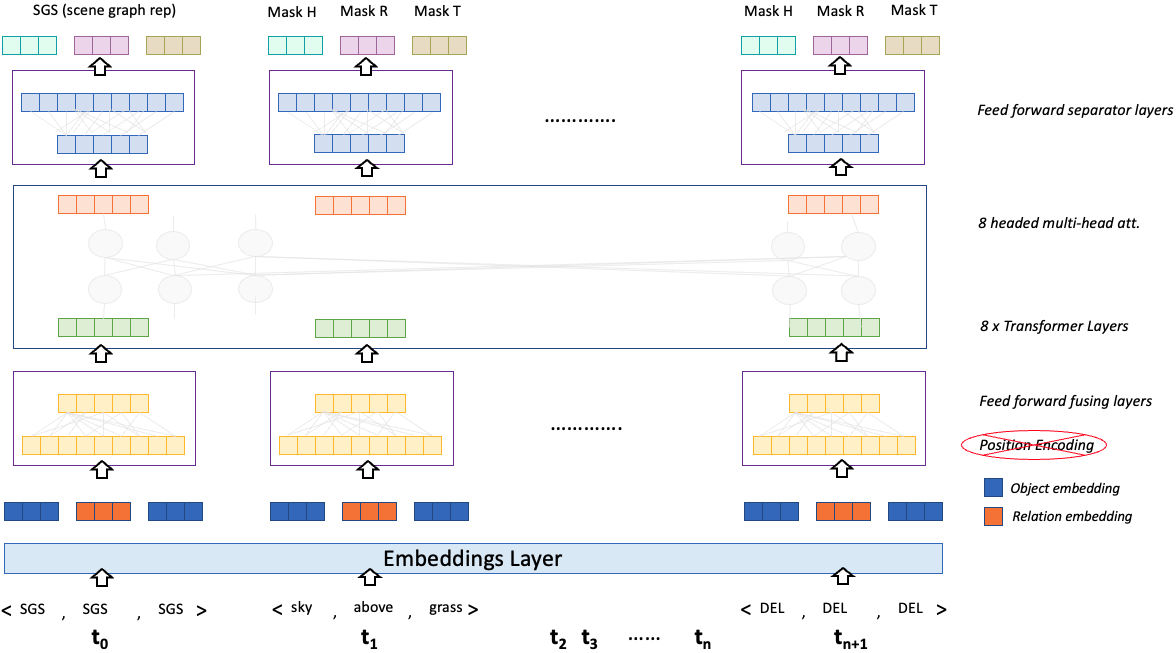
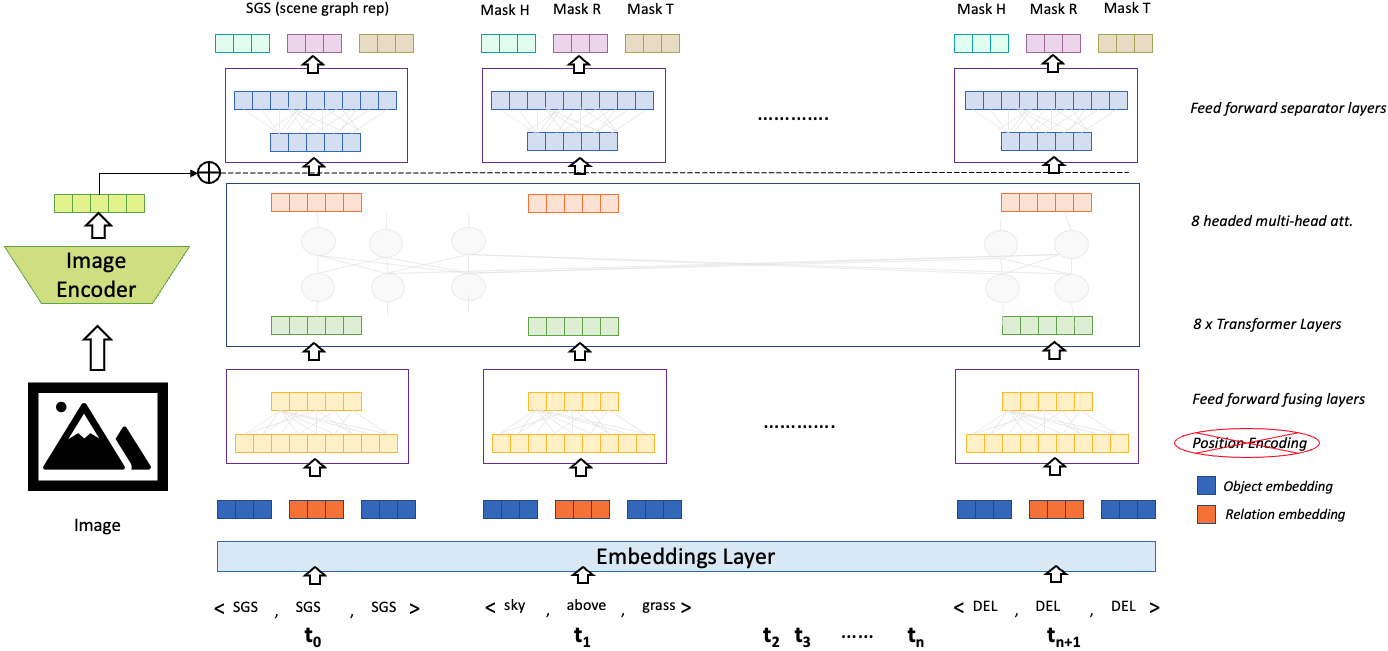
updated website

diff --git a/_docs/Methodology/Fine-tuning.md b/_docs/Methodology/Fine-tuning.md
@@ -14,7 +14,42 @@ Given an incomplete scene graph, our objective is to estimate the missing object
 <br>
 </center>
 
-The layers of the model are initialized with the learnt parameter values from the pre-training setup. The output layers are initialized from scratch. As observed from the figure, there are two setups that we have experimented with. 
+The layers of the model are initialized with the learnt parameter values from the pre-training setup. Please note that the image encoder part is entirely removed from this stage because we need to generate the image from here onwards. 
+
+> Fine-tuning setup
+
+The output layers are initialized from scratch. As observed from the figure, there are two setups that we have experimented with. 
 
 <h4>Setup a </h4>
-In this setup we assume that a candidate triple is provided to us, which requires us to predict whether it belongs to the input scene or not. 
+In this setup we assume that a candidate triple is provided to us, and requires us to predict whether it belongs to the input scene or not. For this setup, we construct the input as < SGS, SGS, SGS > , triple 1, triple 2, .. , triple n < DEL, DEL, DEL > candidate triple < DEL, DEL, DEL > i.e scene graph start, input scene graph, delimiter, candidate triple, and delimiter for input end. The output of the final layer corresponding to the token < SGS, SGS, SGS > is passed through a couple of dense and softmax layers to estimate the probability of the candidate triple being part of the input scene graph. 
+
+**Training**  
+For training we simulate the incomplete scene graphs by randomly removing some triples from the input scene graphs and consider them as the candidate triples. The positive candidates are taken directly from the removed triples. The negative candidates are either randomly generated by sampling by the object and relation dictionaries or by taking some random triple from other scene graphs. Note that this setup is a binary classification problem and hence the loss function used is the standard cross entropy loss. 
+> Challenges 
+
+This setup has a major drawback. The input assumes that a candidate triple is provided and the objective is to classify the triplet. However, in a real world setup, the candidate is not provided to us. Therefore, we consider each < object * relation * object > possible triple from the object and relation dictionaries and evaluate it against the input scene graph. However, we have around 65K objects and 20K relation types in the original Visual Genome dataset, and even in the VG-WSDN dataset we have 150 objects * 50 objects * 150 objects. Given the number of possible candidate triples, there is a possibility of huge amounts of noise and compute requirements for this setup.
+
+<h4>Setup b </h4>
+In this setup we assume that a candidate object is provided to us, and we are supposed to predict the missing relation and other end of the triplet. For this setup, we construct the input as < SGS, SGS, SGS > , triple 1, triple 2, .. , triple n, < candidate object, MASK_RELATION, MASK_OBJECT >, < DEL, DEL, DEL > i.e scene graph start, input scene graph, candidate object with other 2 parts masked, and delimiter for input end. The output of the final layer corresponding to the masked elements MASK_RELATION, MASK_OBJECT are passed through a couple of dense and softmax layers to predict the missing relation and tail objects. Important points to consider - 
+1. In this setup, the number of times we need to infer from the model is only the number of object times which is much better than the previous setup 
+2. The model has the additional burden of performing an n-way relation and object prediction problem which is not present in the previous, hence a drop in performance.
+3. While we mask the triple in its original position in the scene graph sequence, since there is no significance to the position in the input order (no position encodings), we always put the candidate at the end during inference time, without loss of generality. 
+
+**Training**  
+For training we simulate the incomplete scene graphs by randomly masking relation and tail objects of triples from input scene graphs and try to estimate them. Unlike the previous setting we don't need to generate negative samples. The ground truth labels are the masked elements from the input scene graphs. The loss function is a weighted combination of the 2 multi head n-class classification losses i.e categorical cross entropy losses.
+> Challenges 
+
+This setup also has a similar drawback. We need to iterate over the *n* objects in the object dictionary and infer the model n-times which is also a significant inference overhead. To overcome this, we propose a candidate selection/filtering algorithm, which is explained below. 
+
+<h4>Candidate Selection Algorithm</h4>
+Our main hypothesis, which is also proven through our pre-training results, is that objects in nature often tend to collocate with each other. Therefore, we adapt a technique called [Pointwise Mutual Information](https://en.wikipedia.org/wiki/Pointwise_mutual_information) to estimate this co-occurrence phenomenon. The PMI is defined as 
+<center>
+<img src="../../images/pmi.png" alt="example" style="width:500px;"/>
+<br>
+</center>
+where obj1 and obj2 are the two objects for which we want to estimate the pmi scores. Intuitively the metric measures the probability of both the objects occurring together as against to both of them appearing individually in the scenes. Here is the pmi scores chart plotted for the 150 objects of the VG-WSDN dataset. 
+<center>
+<img src="../../images/pmi_plot.png" alt="example" style="width:900px;"/>
+<br>
+</center>
+For better visualization, you can also download the image from [here](). The image is plotted in a high resolution, please zoom in to see the labels and the colors. In the picture lighter regions indicate that they have a high pmi score and darker regions indicate that they have a low pmi score.  

diff --git a/_docs/Methodology/Pre-training.md b/_docs/Methodology/Pre-training.md
@@ -25,7 +25,7 @@ Our architecture is reminiscent to the transformers architecture. The intuition 
 5. **Transformer Layers**  
     The next set of layers are the standard Transfomer encoder layers with multi-head attention modules. We do not modify any of these components because each the concept of learning an object representation by attending to the other objects in the scene is quite applicable in our scenario. 
 6. **Feed Forward Separator Layers**  
-    Since the input is fused from a triplet into a single representation, on the output side, we invert to generate triplet outputs.  
+    Since the input is fused from a triplet into a single representation, on the output side, we invert the fusion layers to generate triplet outputs.  
 
 > Pre-Training Procedure
 
@@ -34,4 +34,4 @@ For pre-training, we borrow the concepts from the [BERT](https://arxiv.org/pdf/1
 2. Else, we mask each of the elements randomly with probability p.
 On the output end, we try to predict the masked input elements. 
 
-The results of the pretraining method are reported in the [Pre-training results](../../Results/Pre-training/) section. 
+During pre-training, for better representation learning, we also concatenate the image embeddings of the scene image obtained by using pre-trained image encoders ([Resnet 18](https://pytorch.org/hub/pytorch_vision_resnet/) in our case) to the final transformer layer outputs. We apply this technique at random and other times we append a padding vector, because during fine-tuning and inferencing time, the image is not available to us up front. The results of the pretraining method are reported in the [Pre-training results](../../Results/Pre-training/) section. For this step, we use 80K images and their scene graphs from the Visual Genome dataset. The loss function is the standard categorical cross entropy loss applied at the masked positions. 
